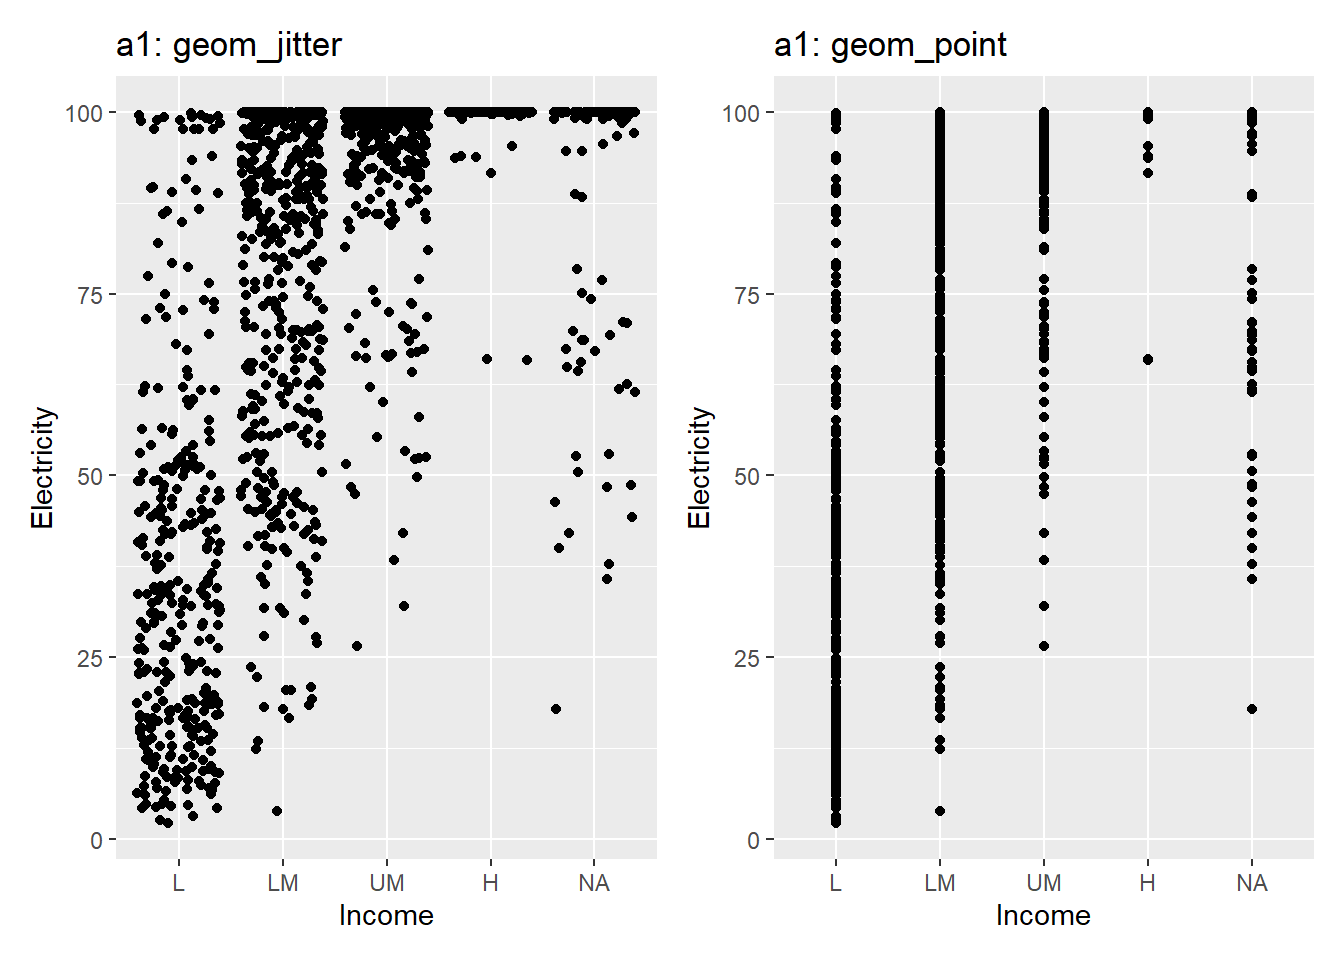
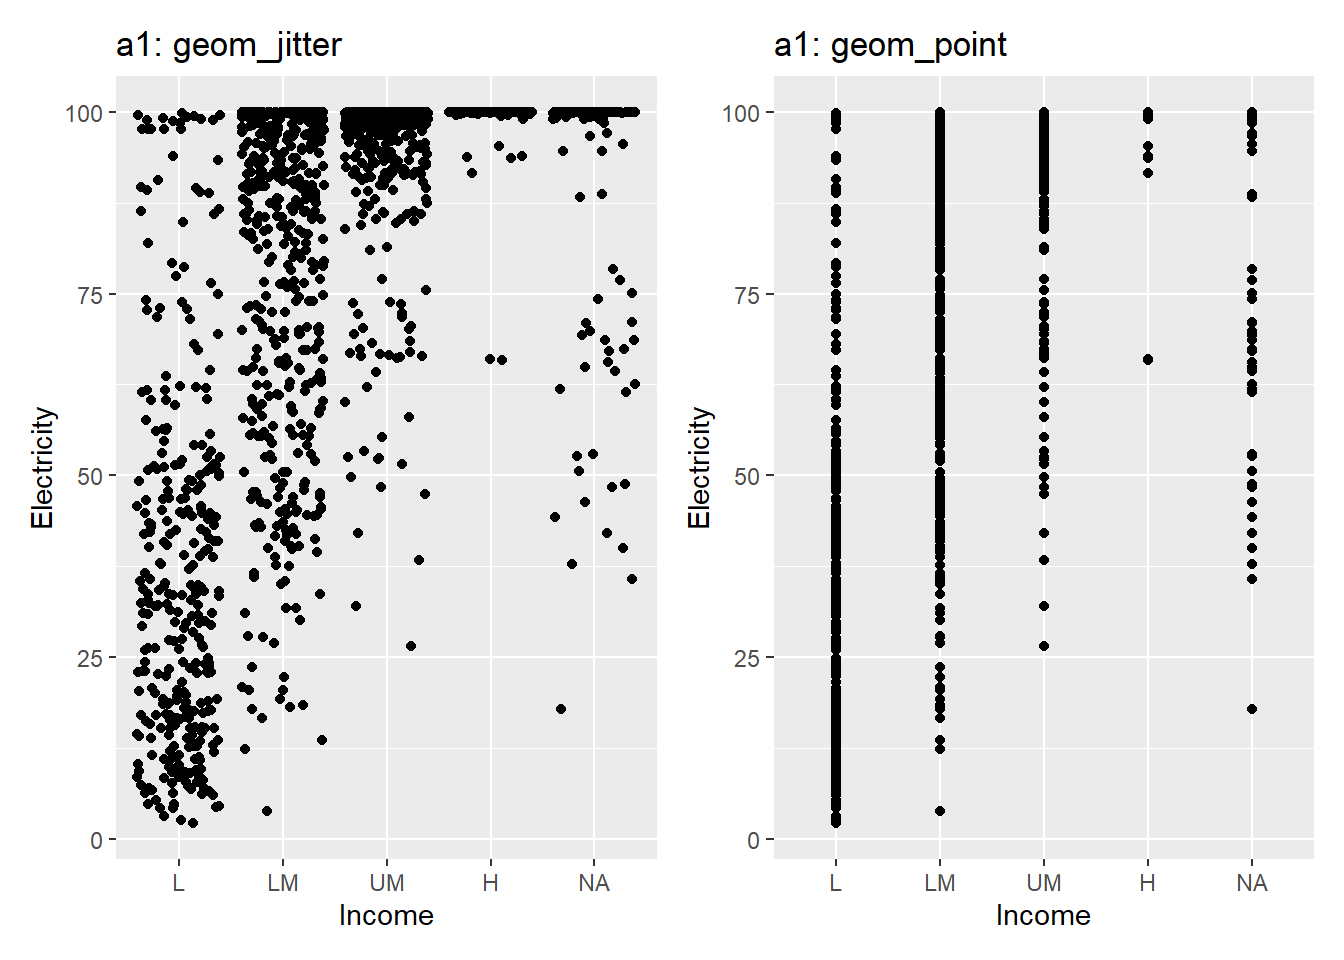
updated

diff --git a/docs/a.html b/docs/a.html
@@ -458,13 +458,34 @@ window.Quarto = {
 <section id="abline" class="level2" data-number="1.1">
 <h2 data-number="1.1" class="anchored" data-anchor-id="abline"><span class="header-section-number">1.1</span> geom_abline</h2>
 <p><strong>Package</strong></p>
-<p>ggplot2 <span class="citation" data-cites="ggplot2">(<a href="#ref-ggplot2" role="doc-biblioref">Wickham 2016</a>)</span></p>
+<p>ggplot2 <span class="citation" data-cites="ggplot2">(<a href="references.html#ref-ggplot2" role="doc-biblioref">Wickham 2016</a>)</span></p>
 <p><strong>Description</strong></p>
-<p>Description Draw a straight line (<span class="math inline">\(Y=mX+c\)</span>) for a given slope (<span class="math inline">\(m\)</span>) and intercept (<span class="math inline">\(c\)</span>).</p>
-<p><strong>Understandable aesthetics</strong></p>
-<p>Unlike most other geoms, <code>geom_abline</code> does not depend on the x and y variables that we map for the main plot. <code>geom_abline</code> has its own independent characteristics: <code>intercept</code> and <code>slope</code>.</p>
+<p>Draw a straight line (<span class="math inline">\(Y=mX+c\)</span>) for a given slope (<span class="math inline">\(m\)</span>) or/and intercept (<span class="math inline">\(c\)</span>).</p>
+<p><strong>Aesthetics</strong></p>
+<table class="caption-top table">
+<colgroup>
+<col style="width: 40%">
+<col style="width: 60%">
+</colgroup>
+<thead>
+<tr class="header">
+<th>Type</th>
+<th>Aesthetics</th>
+</tr>
+</thead>
+<tbody>
+<tr class="odd">
+<td>Required</td>
+<td><code>intercept</code> and/or <code>slope</code></td>
+</tr>
+<tr class="even">
+<td>Other supported aesthetics</td>
+<td><code>colour</code>, <code>alpha</code>, <code>linetype</code>, <code>linewidth</code></td>
+</tr>
+</tbody>
+</table>
 <p><strong>See also</strong></p>
-<p><a href="#point">geom_point</a>, <a href="#vline">geom_vline</a>, <a href="#hline">geom_hline</a></p>
+<p><a href="#point">geom_point</a>, <a href="v.html#vline">geom_vline</a>, <a href="h.html#hline">geom_hline</a>, <a href="#smooth">geom_smooth</a>,</p>
 <p><strong>Example</strong></p>
 <div class="cell">
 <div class="code-copy-outer-scaffold"><div class="sourceCode cell-code" id="cb1"><pre class="sourceCode r code-with-copy"><code class="sourceCode r"><span id="cb1-1"><a href="#cb1-1" aria-hidden="true" tabindex="-1"></a>a1 <span class="ot">&lt;-</span> <span class="fu">ggplot</span>() <span class="sc">+</span></span>
@@ -489,7 +510,7 @@ window.Quarto = {
 <section id="alluvium" class="level2" data-number="1.2">
 <h2 data-number="1.2" class="anchored" data-anchor-id="alluvium"><span class="header-section-number">1.2</span> geom_alluvium</h2>
 <p><strong>Package</strong></p>
-<p>ggalluvial<span class="citation" data-cites="brunson2019package brunson2020ggalluvial">(<a href="#ref-brunson2019package" role="doc-biblioref">Brunson and Read 2019</a>; <a href="#ref-brunson2020ggalluvial" role="doc-biblioref">Brunson 2020</a>)</span></p>
+<p>ggalluvial<span class="citation" data-cites="brunson2019package brunson2020ggalluvial">(<a href="references.html#ref-brunson2019package" role="doc-biblioref">Brunson and Read 2019</a>; <a href="references.html#ref-brunson2020ggalluvial" role="doc-biblioref">Brunson 2020</a>)</span></p>
 <p><strong>Description</strong></p>
 <p>Create alluvial plot. An alluvial plot is a type of diagram that is particularly useful for visualizing categorical data and the flow or transition between different categorical variables over multiple stages or categories.</p>
 <p><strong>Understandable aesthetics</strong></p>
@@ -505,7 +526,7 @@ window.Quarto = {
 <p><em>optional aesthetics</em></p>
 <p><code>alpha</code>, <code>colour</code>, <code>fill</code>, <code>linetype</code>, <code>size</code>, <code>group</code> (group is used internally; arguments are ignored)</p>
 <p><strong>See also</strong></p>
-<p><a href="#stratum">geom_stratum</a>, <a href="#flow">geom_flow</a>, <a href="#line">geom_line</a> <a href="#lode">geom_lode</a></p>
+<p><a href="#stratum">geom_stratum</a>, <a href="#flow">geom_flow</a>, <a href="l.html#line">geom_line</a> <a href="#lode">geom_lode</a></p>
 <p><strong>Example 1</strong></p>
 <p>This example shows the distribution of income level categories in 2021 and 2022 in the regions <code>Sub-Saharan Africa</code> and <code>Latin America &amp; Caribbean</code>.</p>
 <div class="cell">
@@ -606,7 +627,7 @@ window.Quarto = {
 <section id="geom_arc" class="level2" data-number="1.3">
 <h2 data-number="1.3" class="anchored" data-anchor-id="geom_arc"><span class="header-section-number">1.3</span> geom_arc</h2>
 <p><strong>Package</strong></p>
-<p>ggforce<span class="citation" data-cites="ggforce">(<a href="#ref-ggforce" role="doc-biblioref">Pedersen 2022</a>)</span></p>
+<p>ggforce<span class="citation" data-cites="ggforce">(<a href="references.html#ref-ggforce" role="doc-biblioref">Pedersen 2022</a>)</span></p>
 <p><strong>Description</strong></p>
 <p>Draw a circle or a segment of a circle.</p>
 <p><strong>Understandable aesthetic</strong></p>
@@ -642,7 +663,7 @@ window.Quarto = {
 <section id="arcbar" class="level2" data-number="1.4">
 <h2 data-number="1.4" class="anchored" data-anchor-id="arcbar"><span class="header-section-number">1.4</span> geom_arc_bar</h2>
 <p><strong>Package</strong></p>
-<p>ggforce<span class="citation" data-cites="ggforce">(<a href="#ref-ggforce" role="doc-biblioref">Pedersen 2022</a>)</span></p>
+<p>ggforce<span class="citation" data-cites="ggforce">(<a href="references.html#ref-ggforce" role="doc-biblioref">Pedersen 2022</a>)</span></p>
 <p><strong>Description</strong></p>
 <p>To draw pie chart and donut chart defining centre point, a radius and a start and end angle.</p>
 <p><strong>Understandable aesthetic</strong></p>
@@ -721,7 +742,7 @@ window.Quarto = {
 <section id="area" class="level2" data-number="1.5">
 <h2 data-number="1.5" class="anchored" data-anchor-id="area"><span class="header-section-number">1.5</span> geom_area</h2>
 <p><strong>Package</strong></p>
-<p>ggplot2 <span class="citation" data-cites="ggplot2">(<a href="#ref-ggplot2" role="doc-biblioref">Wickham 2016</a>)</span></p>
+<p>ggplot2 <span class="citation" data-cites="ggplot2">(<a href="references.html#ref-ggplot2" role="doc-biblioref">Wickham 2016</a>)</span></p>
 <p><strong>Description</strong></p>
 <p>Create an area plot. This cover the space between x-axis and line that connects the data points.</p>
 <p><strong>Understandable aesthetics</strong></p>
@@ -730,7 +751,7 @@ window.Quarto = {
 <p><em>optional aesthetics</em></p>
 <p><code>alpha</code>, <code>colour</code>, <code>fill</code>, <code>group</code>, <code>linetype</code>, <code>linewidth</code></p>
 <p><strong>See also</strong></p>
-<p><a href="#line">geom_line</a>, <a href="#ribbon">geom_ribbon</a></p>
+<p><a href="l.html#line">geom_line</a>, <a href="#ribbon">geom_ribbon</a></p>
 <p><strong>Example</strong></p>
 <div class="cell">
 <div class="code-copy-outer-scaffold"><div class="sourceCode cell-code" id="cb10"><pre class="sourceCode r code-with-copy"><code class="sourceCode r"><span id="cb10-1"><a href="#cb10-1" aria-hidden="true" tabindex="-1"></a>a1 <span class="ot">&lt;-</span> worldbankdata <span class="sc">|&gt;</span></span>
@@ -764,7 +785,7 @@ window.Quarto = {
 <section id="geom_arima" class="level2" data-number="1.6">
 <h2 data-number="1.6" class="anchored" data-anchor-id="geom_arima"><span class="header-section-number">1.6</span> geom_arima</h2>
 <p><strong>Package</strong></p>
-<p>ggdemetra<span class="citation" data-cites="ggdemetra">(<a href="#ref-ggdemetra" role="doc-biblioref">Quartier-la-Tente 2025</a>)</span></p>
+<p>ggdemetra<span class="citation" data-cites="ggdemetra">(<a href="references.html#ref-ggdemetra" role="doc-biblioref">Quartier-la-Tente 2025</a>)</span></p>
 <p><strong>Description</strong></p>
 <p>Adds the ARIMA model used for seasonal adjustment directly onto a ggplot.</p>
 <p><strong>Understandable aesthetics</strong></p>
@@ -777,7 +798,7 @@ window.Quarto = {
 <section id="arrow" class="level2" data-number="1.7">
 <h2 data-number="1.7" class="anchored" data-anchor-id="arrow"><span class="header-section-number">1.7</span> geom_arrow</h2>
 <p><strong>Package</strong></p>
-<p>metR <span class="citation" data-cites="metR">(<a href="#ref-metR" role="doc-biblioref">Campitelli 2021</a>)</span></p>
+<p>metR <span class="citation" data-cites="metR">(<a href="references.html#ref-metR" role="doc-biblioref">Campitelli 2021</a>)</span></p>
 <p><strong>Description</strong></p>
 <p>Draws directional arrows (like vectors) on a plot, which can represent directions or flows — such as wind directions, movement, or gradients. The arrow from (x, y) and pointing in the direction (dx, dy) (vector components).</p>
 <p><strong>Understandable aesthetics</strong></p>
@@ -787,7 +808,7 @@ window.Quarto = {
 <p><em>optional aesthetics</em></p>
 <p><code>arrow,type</code>, <code>arrow.angle</code>, <code>arrow.length</code>, <code>arrow.ends</code>, <code>arrow.type</code></p>
 <p><strong>See also</strong></p>
-<p><a href="#line">geom_line</a>, <a href="#ribbon">geom_ribbon</a></p>
+<p><a href="l.html#line">geom_line</a>, <a href="#ribbon">geom_ribbon</a></p>
 <section id="example" class="level3" data-number="1.7.1">
 <h3 data-number="1.7.1" class="anchored" data-anchor-id="example"><span class="header-section-number">1.7.1</span> Example</h3>
 <div class="cell">
@@ -816,7 +837,7 @@ window.Quarto = {
 <section id="ash" class="level2" data-number="1.8">
 <h2 data-number="1.8" class="anchored" data-anchor-id="ash"><span class="header-section-number">1.8</span> geom_ash</h2>
 <p><strong>Package</strong></p>
-<p>ggformula <span class="citation" data-cites="ggformula">(<a href="#ref-ggformula" role="doc-biblioref">Kaplan and Pruim 2023</a>)</span></p>
+<p>ggformula <span class="citation" data-cites="ggformula">(<a href="references.html#ref-ggformula" role="doc-biblioref">Kaplan and Pruim 2023</a>)</span></p>
 <p><strong>Description</strong></p>
 <p>Plot Average Shifted Histogram (ASH). The ASH is a nonparametric probability density estimator derived from a collection of histograms.</p>
 <p><strong>Understandable aesthetics</strong></p>
@@ -826,7 +847,7 @@ window.Quarto = {
 <p><em>optional aesthetics</em></p>
 <p><code>color</code>, <code>fill</code>, <code>bins</code>, <code>alpha</code>, <code>size</code></p>
 <p><strong>See also</strong></p>
-<p><a href="#histogram">geom_histogram</a>, <a href="#density">geom_density</a></p>
+<p><a href="h.html#histogram">geom_histogram</a>, <a href="d.html#density">geom_density</a></p>
 <p><strong>Example</strong></p>
 <div class="cell">
 <div class="code-copy-outer-scaffold"><div class="sourceCode cell-code" id="cb13"><pre class="sourceCode r code-with-copy"><code class="sourceCode r"><span id="cb13-1"><a href="#cb13-1" aria-hidden="true" tabindex="-1"></a><span class="fu">library</span>(ggformula)</span>
@@ -852,7 +873,7 @@ window.Quarto = {
 <section id="geom_autodensity" class="level2" data-number="1.9">
 <h2 data-number="1.9" class="anchored" data-anchor-id="geom_autodensity"><span class="header-section-number">1.9</span> geom_autodensity</h2>
 <p><strong>Package</strong></p>
-<p>ggforce <span class="citation" data-cites="ggforce">(<a href="#ref-ggforce" role="doc-biblioref">Pedersen 2022</a>)</span></p>
+<p>ggforce <span class="citation" data-cites="ggforce">(<a href="references.html#ref-ggforce" role="doc-biblioref">Pedersen 2022</a>)</span></p>
 <p><strong>Description</strong></p>
 <p>A matrix-style (commonly from GGally package) visualizations to automatically display variable distributions on diagonal panels, handling both continuous and discrete data while simplifying the mapping of panel variables.</p>
 <p><strong>Understandable aesthetics</strong></p>
@@ -861,7 +882,7 @@ window.Quarto = {
 <p><em>optional aesthetics</em></p>
 <p><code>alpha</code>, <code>colour</code>, <code>group</code>, <code>linetype</code>, <code>linewidth</code></p>
 <p><strong>See also</strong></p>
-<p><a href="#density">geom_density</a>, <a href="#histogram">geom_histogram</a>, <a href="#autohistogram">geom_autohistogram</a>, <a href="#autopoint">geom_autopoint</a>,</p>
+<p><a href="d.html#density">geom_density</a>, <a href="h.html#histogram">geom_histogram</a>, <a href="#autohistogram">geom_autohistogram</a>, <a href="#autopoint">geom_autopoint</a>,</p>
 <p><strong>Example</strong></p>
 <div class="cell">
 <div class="code-copy-outer-scaffold"><div class="sourceCode cell-code" id="cb14"><pre class="sourceCode r code-with-copy"><code class="sourceCode r"><span id="cb14-1"><a href="#cb14-1" aria-hidden="true" tabindex="-1"></a><span class="fu">library</span>(ggplot2)</span>
@@ -898,7 +919,7 @@ window.Quarto = {
 <section id="geom_autohistogram" class="level2" data-number="1.10">
 <h2 data-number="1.10" class="anchored" data-anchor-id="geom_autohistogram"><span class="header-section-number">1.10</span> geom_autohistogram</h2>
 <p><strong>Package</strong></p>
-<p>ggforce <span class="citation" data-cites="ggforce">(<a href="#ref-ggforce" role="doc-biblioref">Pedersen 2022</a>)</span></p>
+<p>ggforce <span class="citation" data-cites="ggforce">(<a href="references.html#ref-ggforce" role="doc-biblioref">Pedersen 2022</a>)</span></p>
 <p><strong>Description</strong></p>
 <p><strong>Understandable aesthetics</strong></p>
 <p><em>required aesthetics</em></p>
@@ -906,7 +927,7 @@ window.Quarto = {
 <p><em>optional aesthetics</em></p>
 <p><code>alpha</code>, <code>colour</code>, <code>group</code>, <code>linetype</code>, <code>linewidth</code></p>
 <p><strong>See also</strong></p>
-<p><a href="#histogram">geom_histogram</a>, <a href="#autodensity">geom_auotodensity</a>, <a href="#autopoint">geom_auotpoint</a></p>
+<p><a href="h.html#histogram">geom_histogram</a>, <a href="#autodensity">geom_auotodensity</a>, <a href="#autopoint">geom_auotpoint</a></p>
 <p><strong>Example</strong></p>
 <div class="cell">
 <div class="code-copy-outer-scaffold"><div class="sourceCode cell-code" id="cb16"><pre class="sourceCode r code-with-copy"><code class="sourceCode r"><span id="cb16-1"><a href="#cb16-1" aria-hidden="true" tabindex="-1"></a><span class="fu">library</span>(dplyr)</span>
@@ -963,7 +984,7 @@ window.Quarto = {
 <section id="geom_autopoint" class="level2" data-number="1.11">
 <h2 data-number="1.11" class="anchored" data-anchor-id="geom_autopoint"><span class="header-section-number">1.11</span> geom_autopoint</h2>
 <p><strong>Package</strong></p>
-<p>ggplot2 <span class="citation" data-cites="ggplot2">(<a href="#ref-ggplot2" role="doc-biblioref">Wickham 2016</a>)</span></p>
+<p>ggplot2 <span class="citation" data-cites="ggplot2">(<a href="references.html#ref-ggplot2" role="doc-biblioref">Wickham 2016</a>)</span></p>
 <p><strong>Description</strong></p>
 <p><strong>Understandable aesthetics</strong></p>
 <p><em>required aesthetics</em></p>
@@ -972,13 +993,13 @@ window.Quarto = {
 <p><em>optional aesthetics</em></p>
 <p><code>alpha</code>, <code>colour</code>, <code>group</code>, <code>linetype</code>, <code>linewidth</code></p>
 <p><strong>See also</strong></p>
-<p><a href="#line">geom_line</a>, <a href="#ribbon">geom_ribbon</a></p>
+<p><a href="l.html#line">geom_line</a>, <a href="#ribbon">geom_ribbon</a></p>
 <p><strong>Example</strong></p>
 </section>
 <section id="geom_axis_hive" class="level2" data-number="1.12">
 <h2 data-number="1.12" class="anchored" data-anchor-id="geom_axis_hive"><span class="header-section-number">1.12</span> geom_axis_hive</h2>
 <p><strong>Package</strong></p>
-<p>ggplot2 <span class="citation" data-cites="ggplot2">(<a href="#ref-ggplot2" role="doc-biblioref">Wickham 2016</a>)</span></p>
+<p>ggplot2 <span class="citation" data-cites="ggplot2">(<a href="references.html#ref-ggplot2" role="doc-biblioref">Wickham 2016</a>)</span></p>
 <p><strong>Description</strong></p>
 <p><strong>Understandable aesthetics</strong></p>
 <p><em>required aesthetics</em></p>
@@ -986,11 +1007,11 @@ window.Quarto = {
 <p><em>optional aesthetics</em></p>
 <p><code>alpha</code>, <code>colour</code>, <code>group</code>, <code>linetype</code>, <code>linewidth</code></p>
 <p><strong>See also</strong></p>
-<p><a href="#line">geom_line</a>, <a href="#ribbon">geom_ribbon</a></p>
+<p><a href="l.html#line">geom_line</a>, <a href="#ribbon">geom_ribbon</a></p>
 <p><strong>Example</strong></p>
 
 
-<div id="refs" class="references csl-bib-body hanging-indent" data-entry-spacing="0" role="list">
+<div id="refs" class="references csl-bib-body hanging-indent" data-entry-spacing="0" role="list" style="display: none">
 <div id="ref-brunson2020ggalluvial" class="csl-entry" role="listitem">
 Brunson, Jason Cory. 2020. <span>“Ggalluvial: Layered Grammar for Alluvial Plots.”</span> <em>Journal of Open Source Software</em> 5 (49).
 </div>

diff --git a/docs/i.html b/docs/i.html
@@ -388,7 +388,6 @@ div.csl-indent {
   <ul>
   <li><a href="#image" id="toc-image" class="nav-link active" data-scroll-target="#image"><span class="header-section-number">9.1</span> geom_image</a></li>
   <li><a href="#icon" id="toc-icon" class="nav-link" data-scroll-target="#icon"><span class="header-section-number">9.2</span> geom_icon</a></li>
-  <li><a href="#geom_jitter_interactive" id="toc-geom_jitter_interactive" class="nav-link" data-scroll-target="#geom_jitter_interactive"><span class="header-section-number">9.3</span> geom_jitter_interactive</a></li>
   </ul>
 <div class="toc-actions"><ul><li><a href="https://github.com/thiyangt/geom.encyclopedia/edit/main/i.qmd" class="toc-action"><i class="bi bi-github"></i>Edit this page</a></li><li><a href="https://github.com/thiyangt/geom.encyclopedia/issues/new" class="toc-action"><i class="bi empty"></i>Report an issue</a></li></ul></div></nav>
     </div>
@@ -451,37 +450,6 @@ div.csl-indent {
 <span id="cb2-4"><a href="#cb2-4" aria-hidden="true" tabindex="-1"></a>df<span class="sc">$</span>icon <span class="ot">=</span> <span class="fu">sample</span>(<span class="fu">c</span>(<span class="st">'ios-power'</span>, <span class="st">'ios-wifi'</span>, <span class="st">'ios-pie'</span>), <span class="dv">10</span>, <span class="at">replace=</span><span class="cn">TRUE</span>)</span>
 <span id="cb2-5"><a href="#cb2-5" aria-hidden="true" tabindex="-1"></a><span class="fu">ggplot</span>(df, <span class="fu">aes</span>(x, y)) <span class="sc">+</span> <span class="fu">geom_icon</span>(<span class="fu">aes</span>(<span class="at">image=</span>icon))</span></code></pre></div><button title="Copy to Clipboard" class="code-copy-button"><i class="bi"></i></button></div>
 </div>
-</section>
-<section id="geom_jitter_interactive" class="level2" data-number="9.3">
-<h2 data-number="9.3" class="anchored" data-anchor-id="geom_jitter_interactive"><span class="header-section-number">9.3</span> geom_jitter_interactive</h2>
-<p><strong>Package</strong></p>
-<p>ggiraph <span class="citation" data-cites="ggiraph">(<a href="references.html#ref-ggiraph" role="doc-biblioref"><strong>ggiraph?</strong></a>)</span></p>
-<p><strong>Description</strong></p>
-<p>Adds interactive features like tooltips and hyperlinks, allowing for dynamic exploration of jittered data points in a plot.</p>
-<p><strong>Understandable aesthetics</strong></p>
-<p><em>required aesthetics</em></p>
-<p><code>x</code></p>
-<p><code>y</code></p>
-<p><em>optional aesthetics</em></p>
-<p><code>alpha</code>, <code>colour</code>, <code>group</code>, <code>linetype</code>, <code>linewidth</code></p>
-<p><strong>See also</strong></p>
-<p><a href="#point">geom_point</a>, <a href="j.html#jitter">geom_ribbon</a></p>
-<p><strong>Example</strong></p>
-<div class="cell">
-<div class="code-copy-outer-scaffold"><div class="sourceCode cell-code" id="cb3"><pre class="sourceCode r code-with-copy"><code class="sourceCode r"><span id="cb3-1"><a href="#cb3-1" aria-hidden="true" tabindex="-1"></a><span class="fu">library</span>(ggiraph)</span>
-<span id="cb3-2"><a href="#cb3-2" aria-hidden="true" tabindex="-1"></a>p <span class="ot">&lt;-</span> <span class="fu">ggplot</span>(worldbankdata, <span class="fu">aes</span>(<span class="at">y =</span> Region, <span class="at">x =</span> Electricity, <span class="at">color =</span> Income)) <span class="sc">+</span></span>
-<span id="cb3-3"><a href="#cb3-3" aria-hidden="true" tabindex="-1"></a>  <span class="fu">geom_jitter_interactive</span>(<span class="fu">aes</span>(<span class="at">tooltip =</span> <span class="fu">paste</span>(<span class="st">"Country:"</span>, Country, </span>
-<span id="cb3-4"><a href="#cb3-4" aria-hidden="true" tabindex="-1"></a>                                              <span class="st">"&lt;br&gt;Year:"</span>, Year, </span>
-<span id="cb3-5"><a href="#cb3-5" aria-hidden="true" tabindex="-1"></a>                                              <span class="st">"&lt;br&gt;Electricity:"</span>, Electricity)),</span>
-<span id="cb3-6"><a href="#cb3-6" aria-hidden="true" tabindex="-1"></a>                          <span class="at">size =</span> <span class="dv">2</span>, <span class="at">width =</span> <span class="fl">0.3</span>) <span class="sc">+</span> </span>
-<span id="cb3-7"><a href="#cb3-7" aria-hidden="true" tabindex="-1"></a>  <span class="fu">labs</span>(<span class="at">title =</span> <span class="st">"Electricity by region and income group"</span>,</span>
-<span id="cb3-8"><a href="#cb3-8" aria-hidden="true" tabindex="-1"></a>      <span class="at">y =</span> <span class="st">"Region"</span>,</span>
-<span id="cb3-9"><a href="#cb3-9" aria-hidden="true" tabindex="-1"></a>       <span class="at">x =</span> <span class="st">"Electricity"</span>,</span>
-<span id="cb3-10"><a href="#cb3-10" aria-hidden="true" tabindex="-1"></a>       <span class="at">color =</span> <span class="st">"Income group"</span>) </span>
-<span id="cb3-11"><a href="#cb3-11" aria-hidden="true" tabindex="-1"></a>x <span class="ot">&lt;-</span> <span class="fu">girafe</span>(<span class="at">ggobj =</span> p)</span>
-<span id="cb3-12"><a href="#cb3-12" aria-hidden="true" tabindex="-1"></a><span class="cf">if</span>( <span class="fu">interactive</span>() ) <span class="fu">print</span>(x)</span></code></pre></div><button title="Copy to Clipboard" class="code-copy-button"><i class="bi"></i></button></div>
-</div>
-<p><img src="img/geom_jitter_interactive.png" class="img-fluid"></p>
 
 
 <div id="refs" class="references csl-bib-body hanging-indent" data-entry-spacing="0" role="list" style="display: none">

diff --git a/docs/j.html b/docs/j.html
@@ -387,6 +387,7 @@ div.csl-indent {
    
   <ul>
   <li><a href="#jitter" id="toc-jitter" class="nav-link active" data-scroll-target="#jitter"><span class="header-section-number">10.1</span> geom_jitter</a></li>
+  <li><a href="#geom_jitter_interactive" id="toc-geom_jitter_interactive" class="nav-link" data-scroll-target="#geom_jitter_interactive"><span class="header-section-number">10.2</span> geom_jitter_interactive</a></li>
   </ul>
 <div class="toc-actions"><ul><li><a href="https://github.com/thiyangt/geom.encyclopedia/edit/main/j.qmd" class="toc-action"><i class="bi bi-github"></i>Edit this page</a></li><li><a href="https://github.com/thiyangt/geom.encyclopedia/issues/new" class="toc-action"><i class="bi empty"></i>Report an issue</a></li></ul></div></nav>
     </div>
@@ -437,6 +438,37 @@ div.csl-indent {
 </div>
 </div>
 </div>
+</section>
+<section id="geom_jitter_interactive" class="level2" data-number="10.2">
+<h2 data-number="10.2" class="anchored" data-anchor-id="geom_jitter_interactive"><span class="header-section-number">10.2</span> geom_jitter_interactive</h2>
+<p><strong>Package</strong></p>
+<p>ggiraph <span class="citation" data-cites="ggiraph">(<a href="references.html#ref-ggiraph" role="doc-biblioref"><strong>ggiraph?</strong></a>)</span></p>
+<p><strong>Description</strong></p>
+<p>Adds interactive features like tooltips and hyperlinks, allowing for dynamic exploration of jittered data points in a plot.</p>
+<p><strong>Understandable aesthetics</strong></p>
+<p><em>required aesthetics</em></p>
+<p><code>x</code></p>
+<p><code>y</code></p>
+<p><em>optional aesthetics</em></p>
+<p><code>alpha</code>, <code>colour</code>, <code>group</code>, <code>linetype</code>, <code>linewidth</code></p>
+<p><strong>See also</strong></p>
+<p><a href="#point">geom_point</a>, <a href="#jitter">geom_ribbon</a></p>
+<p><strong>Example</strong></p>
+<div class="cell">
+<div class="code-copy-outer-scaffold"><div class="sourceCode cell-code" id="cb2"><pre class="sourceCode r code-with-copy"><code class="sourceCode r"><span id="cb2-1"><a href="#cb2-1" aria-hidden="true" tabindex="-1"></a><span class="fu">library</span>(ggiraph)</span>
+<span id="cb2-2"><a href="#cb2-2" aria-hidden="true" tabindex="-1"></a>p <span class="ot">&lt;-</span> <span class="fu">ggplot</span>(worldbankdata, <span class="fu">aes</span>(<span class="at">y =</span> Region, <span class="at">x =</span> Electricity, <span class="at">color =</span> Income)) <span class="sc">+</span></span>
+<span id="cb2-3"><a href="#cb2-3" aria-hidden="true" tabindex="-1"></a>  <span class="fu">geom_jitter_interactive</span>(<span class="fu">aes</span>(<span class="at">tooltip =</span> <span class="fu">paste</span>(<span class="st">"Country:"</span>, Country, </span>
+<span id="cb2-4"><a href="#cb2-4" aria-hidden="true" tabindex="-1"></a>                                              <span class="st">"&lt;br&gt;Year:"</span>, Year, </span>
+<span id="cb2-5"><a href="#cb2-5" aria-hidden="true" tabindex="-1"></a>                                              <span class="st">"&lt;br&gt;Electricity:"</span>, Electricity)),</span>
+<span id="cb2-6"><a href="#cb2-6" aria-hidden="true" tabindex="-1"></a>                          <span class="at">size =</span> <span class="dv">2</span>, <span class="at">width =</span> <span class="fl">0.3</span>) <span class="sc">+</span> </span>
+<span id="cb2-7"><a href="#cb2-7" aria-hidden="true" tabindex="-1"></a>  <span class="fu">labs</span>(<span class="at">title =</span> <span class="st">"Electricity by region and income group"</span>,</span>
+<span id="cb2-8"><a href="#cb2-8" aria-hidden="true" tabindex="-1"></a>      <span class="at">y =</span> <span class="st">"Region"</span>,</span>
+<span id="cb2-9"><a href="#cb2-9" aria-hidden="true" tabindex="-1"></a>       <span class="at">x =</span> <span class="st">"Electricity"</span>,</span>
+<span id="cb2-10"><a href="#cb2-10" aria-hidden="true" tabindex="-1"></a>       <span class="at">color =</span> <span class="st">"Income group"</span>) </span>
+<span id="cb2-11"><a href="#cb2-11" aria-hidden="true" tabindex="-1"></a>x <span class="ot">&lt;-</span> <span class="fu">girafe</span>(<span class="at">ggobj =</span> p)</span>
+<span id="cb2-12"><a href="#cb2-12" aria-hidden="true" tabindex="-1"></a><span class="cf">if</span>( <span class="fu">interactive</span>() ) <span class="fu">print</span>(x)</span></code></pre></div><button title="Copy to Clipboard" class="code-copy-button"><i class="bi"></i></button></div>
+</div>
+<p><img src="img/geom_jitter_interactive.png" class="img-fluid"></p>
 
 
 <div id="refs" class="references csl-bib-body hanging-indent" data-entry-spacing="0" role="list" style="display: none">